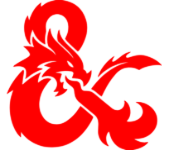
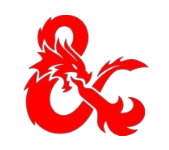
fin de header

diff --git a/src/app/common/header/header.component.html b/src/app/common/header/header.component.html
@@ -1,36 +1,44 @@
 <header class="header-container">
   <nav class="logo-nav">
 
-    <div class="logo-wrapper" title="D&D">
+    <div class="logo-wrapper">
       <img src="assets/img/d&d.png" alt="D&D" class="game-logo" />
+      <span class="tooltip-text">D&D</span>
     </div>
 
-    <div class="logo-wrapper" title="Pathfinder">
-      <img src="assets/img/logo2.png" alt="Pathfinder" class="game-logo" />
+    <div class="logo-wrapper">
+      <img src="assets/img/pathfinder.png" alt="Pathfinder" class="game-logo" />
+      <span class="tooltip-text">Pathfinder</span>
     </div>
 
-    <div class="logo-wrapper" title="Anima">
-      <img src="assets/img/logo3.png" alt="Anima" class="game-logo" />
+    <div class="logo-wrapper">
+      <img src="assets/img/anima.png" alt="Anima" class="game-logo" />
+      <span class="tooltip-text">Anima</span>
     </div>
 
-    <div class="logo-wrapper" title="Warhammer">
-      <img src="assets/img/logo4.png" alt="Warhammer" class="game-logo" />
+    <div class="logo-wrapper">
+      <img src="assets/img/warhammer.png" alt="Warhammer" class="game-logo" />
+      <span class="tooltip-text">Warhammer</span>
     </div>
 
-    <div class="logo-wrapper" title="Cthulhu">
-      <img src="assets/img/logo5.png" alt="Cthulhu" class="game-logo" />
+    <div class="logo-wrapper">
+      <img src="assets/img/cthulu.png" alt="Cthulhu" class="game-logo" />
+      <span class="tooltip-text">Cthulhu</span>
     </div>
 
-    <div class="logo-wrapper" title="La Leyenda de los 5 Anillos">
-      <img src="assets/img/logo6.png" alt="Leyenda de los 5 Anillos" class="game-logo" />
+    <div class="logo-wrapper">
+      <img src="assets/img/5 anillos.png" alt="Leyenda de los 5 Anillos" class="game-logo" />
+      <span class="tooltip-text">La Leyenda de los 5 Anillos</span>
     </div>
 
-    <div class="logo-wrapper" title="Masks">
-      <img src="assets/img/logo7.png" alt="Masks" class="game-logo" />
+    <div class="logo-wrapper">
+      <img src="assets/img/masks.png" alt="Masks" class="game-logo" />
+      <span class="tooltip-text">Masks</span>
     </div>
 
-    <div class="logo-wrapper" title="Star Wars">
-      <img src="assets/img/logo8.png" alt="Star Wars" class="game-logo" />
+    <div class="logo-wrapper">
+      <img src="assets/img/starwars.png" alt="Star Wars" class="game-logo" />
+      <span class="tooltip-text">Star Wars</span>
     </div>
 
   </nav>

diff --git a/src/app/common/header/header.component.css b/src/app/common/header/header.component.css
@@ -1,9 +1,10 @@
 .header-container {
   border-bottom: 5px solid #d4af37;
-  padding: 16px 0;
+  padding: 32px 0; /* antes era 16px 0 */
   display: flex;
   justify-content: center;
   box-shadow: 0 4px 12px rgba(0,0,0,0.6);
+  position: relative;
 }
 
 .logo-nav {
@@ -27,4 +28,36 @@
   width: auto;
   padding: 4px;
   border-radius: 5px;
+}
+
+.logo-wrapper {
+  position: relative;
+  display: inline-block;
+}
+
+.tooltip-text {
+  visibility: hidden;
+  width: auto;
+  background: url('/assets/img/parchment-tooltip.png') no-repeat center center;
+  background-size: cover;
+  color: #4b1e1e;
+  text-align: center;
+  padding: 8px 12px;
+  border-radius: 8px;
+  font-family: 'Uncial Antiqua', cursive;
+  font-size: 14px;
+  position: absolute;
+  bottom: 85%;
+  left: 50%;
+  transform: translateX(-50%);
+  z-index: 1;
+  white-space: nowrap;
+  box-shadow: 0 0 10px #000;
+  opacity: 0;
+  transition: opacity 0.3s ease-in-out;
+}
+
+.logo-wrapper:hover .tooltip-text {
+  visibility: visible;
+  opacity: 1;
 }
